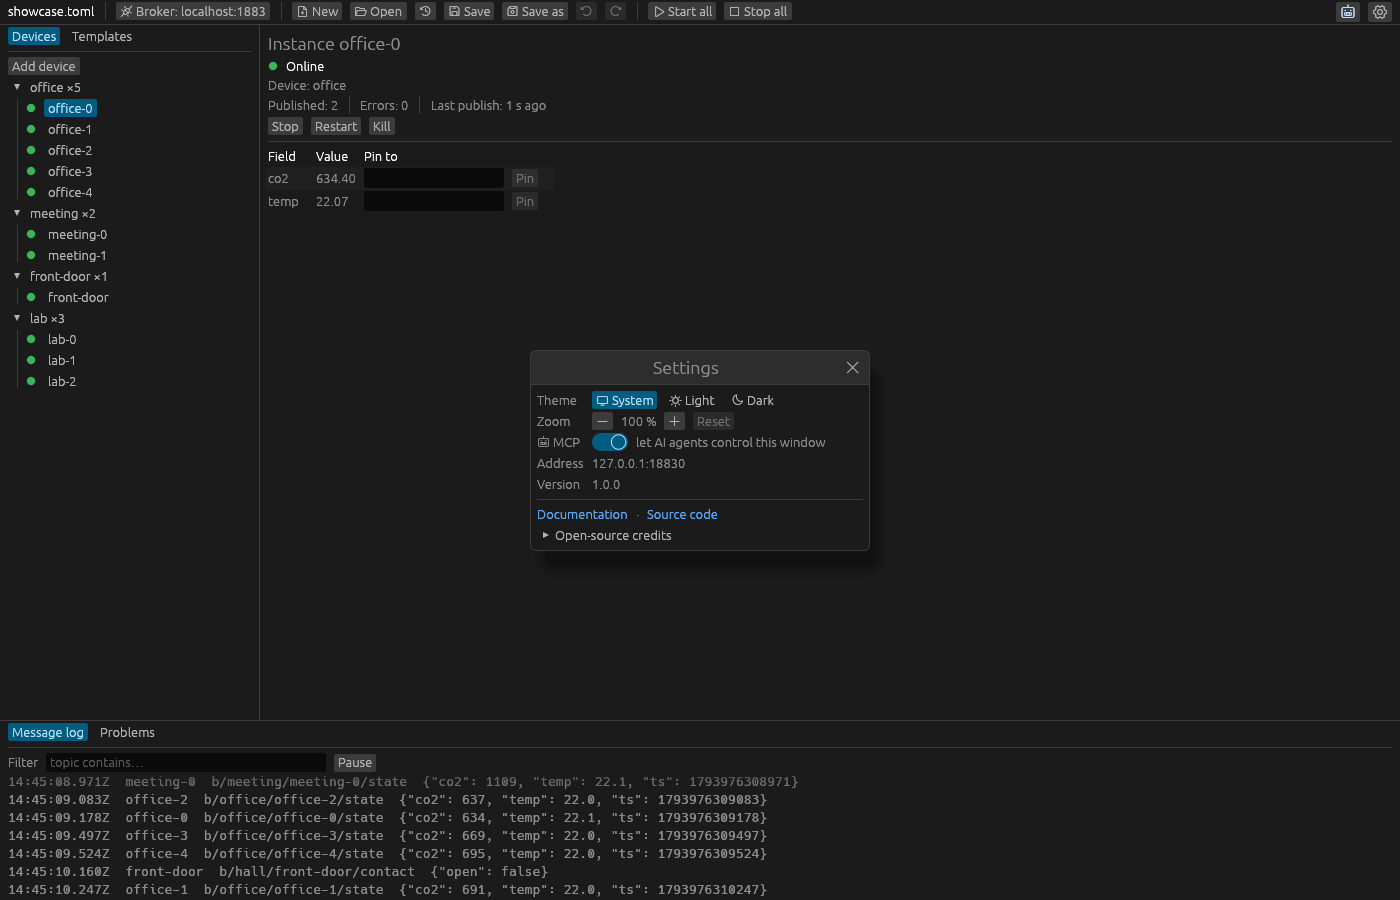
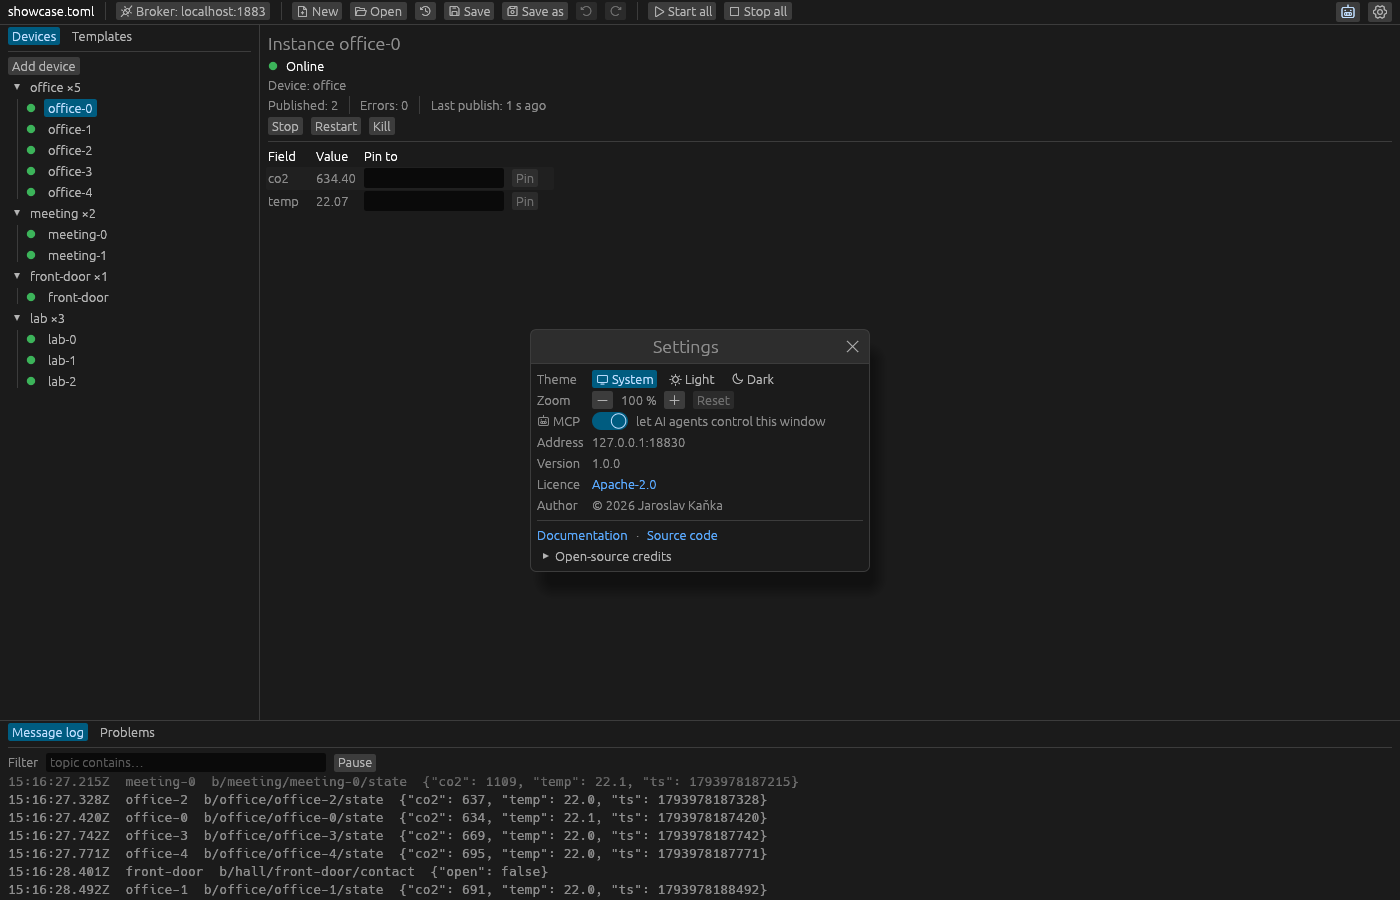
chore: license Senzor under Apache-2.0 with a NOTICE crediting its author
Senzor is open source under the Apache License 2.0. Whoever redistributes
it or a program built from its code must keep the licence and the NOTICE,
and show the NOTICE where their program lists third-party notices: the
credit to the Senzor project and its author that the licence asks for.

- LICENSE: the official Apache License 2.0 text from apache.org.
- NOTICE: Senzor, Copyright 2026 Jaroslav Kaňka, and the repository.
- Cargo.toml: license, authors and repository in workspace.package; every
  crate inherits them.
- Settings: Licence (linking to LICENSE) and Author rows under Version.
- Tests: Settings shows the licence and the author.
- Docs: a Licence section on the introduction, and the Settings page
  mentions both rows; settings.png regenerated.

Changed region(s): [[0.3686, 0.3733, 0.5836, 0.6222], [0.0, 0.8711, 0.0921, 0.9956], [0.4914, 0.8711, 0.5529, 0.9956]]

diff --git a/crates/senzor/src/ui/settings.rs b/crates/senzor/src/ui/settings.rs
@@ -32,6 +32,17 @@ pub fn show(
                     ui.label("Version");
                     ui.label(env!("CARGO_PKG_VERSION"));
                     ui.end_row();
+
+                    ui.label("Licence");
+                    ui.hyperlink_to(
+                        env!("CARGO_PKG_LICENSE"),
+                        format!("{}/blob/main/LICENSE", super::SOURCE_URL),
+                    );
+                    ui.end_row();
+
+                    ui.label("Author");
+                    ui.label(format!("© 2026 {}", env!("CARGO_PKG_AUTHORS")));
+                    ui.end_row();
                 });
             ui.separator();
             about(ui);

diff --git a/crates/senzor/tests/gui.rs b/crates/senzor/tests/gui.rs
@@ -1009,3 +1009,12 @@ fn ctrl_z_in_a_field_takes_back_the_typing_and_the_project_follows() {
         "typing taken back leaves no undo step"
     );
 }
+
+#[test]
+fn the_settings_name_senzors_licence_and_author() {
+    let mut harness = app(None, FakeDialogs::default());
+    click(&mut harness, "Settings");
+    harness.run();
+    assert!(harness.query_by_label("Apache-2.0").is_some());
+    assert!(harness.query_by_label("© 2026 Jaroslav Kaňka").is_some());
+}
